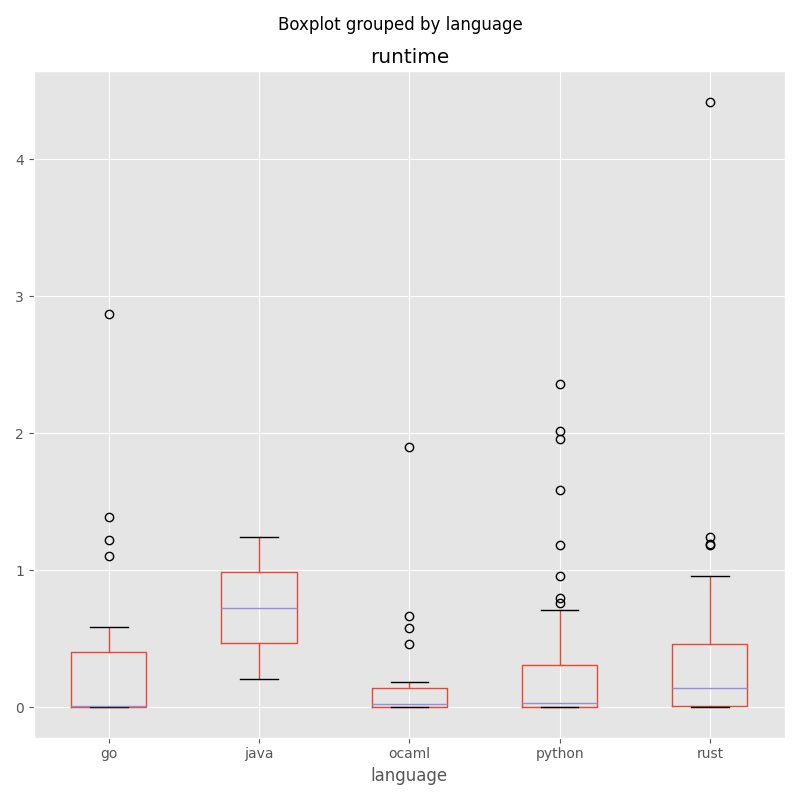
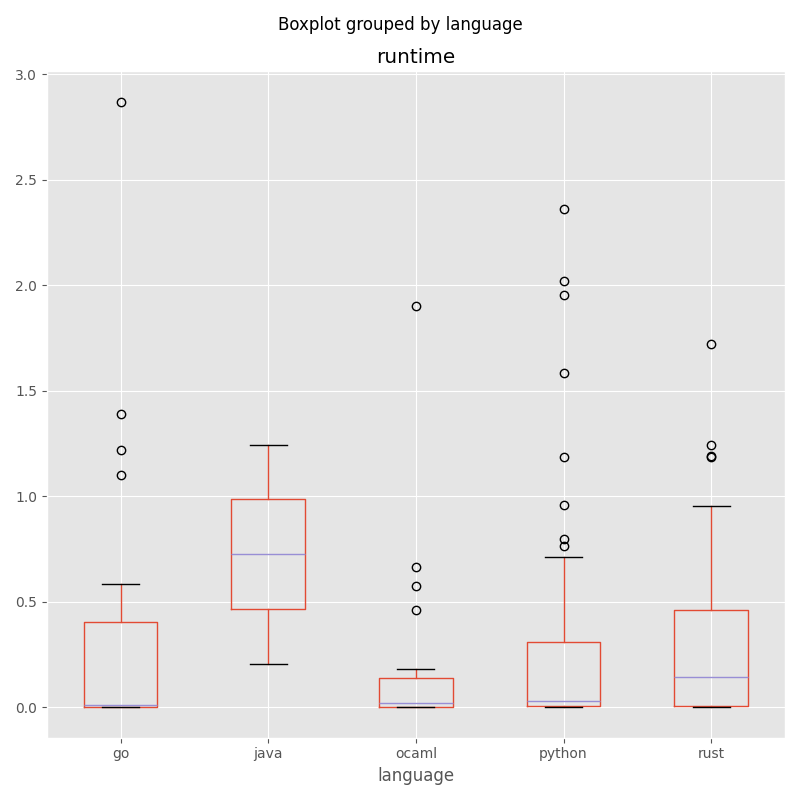
Get a significant improvement for 2022/16 from 4.5 seconds to 1.5 seconds by storing valves as u8s rather than Strings

diff --git a/2022/16/solver.rs b/2022/16/solver.rs
@@ -1,6 +1,7 @@
 use aoc_lib::answer;
 use aoc_lib::reader;
 use fxhash::FxHashMap;
+use itertools::Itertools;
 use nom::{
     branch::alt,
     bytes::complete::tag,
@@ -14,16 +15,48 @@ use petgraph::{algo::floyd_warshall::floyd_warshall, graphmap::DiGraphMap};
 use priority_queue::PriorityQueue;
 use std::collections::BTreeSet;
 
+#[derive(Debug)]
+struct Valve {
+    name: String,
+    flow_rate: u16,
+    leads_to: Vec<String>,
+}
+
+impl Valve {
+    fn from_str(input: &str) -> IResult<&str, Self> {
+        // Valve OM has flow rate=0; tunnels lead to valves AA, EZ
+        let (input, name) = tuple((tag("Valve "), alpha0))(input)?;
+        let (input, flow_rate) = tuple((
+            tag(" has flow rate="),
+            map_res(digit0, |s: &str| s.parse()),
+            tag("; "),
+        ))(input)?;
+        let (input, _) = alt((
+            tag("tunnel leads to valve "),
+            tag("tunnels lead to valves "),
+        ))(input)?;
+        let (input, valves) = separated_list0(tag(", "), alpha0)(input)?;
+        Ok((
+            input,
+            Self {
+                name: name.1.to_string(),
+                flow_rate: flow_rate.1,
+                leads_to: valves.iter().map(|valve| valve.to_string()).collect(),
+            },
+        ))
+    }
+}
+
 #[derive(Debug, Clone, Hash, PartialEq, Eq)]
 struct IndividualState {
-    location: String,
+    location: u8,
     minutes_left: u16,
 }
 
 #[derive(Debug, Clone, Hash, PartialEq, Eq)]
 struct FullState {
     individuals: Vec<IndividualState>,
-    valves_opened: BTreeSet<String>,
+    valves_opened: BTreeSet<u8>,
 }
 
 impl FullState {
@@ -31,20 +64,20 @@ impl FullState {
         Self {
             individuals: vec![
                 IndividualState {
-                    location: "AA".to_string(),
+                    location: 0,
                     minutes_left: starting_time,
                 };
                 individuals
             ],
-            valves_opened: ["AA".to_string()].into(),
+            valves_opened: [].into(),
         }
     }
 }
 
 #[derive(Debug)]
 struct Cave {
-    graph: FxHashMap<String, Vec<(String, u16)>>,
-    valve_to_flow: FxHashMap<String, u16>,
+    graph: FxHashMap<u8, Vec<(u8, u16)>>,
+    valve_flow: FxHashMap<u8, u16>,
 }
 
 impl Cave {
@@ -99,11 +132,11 @@ impl Cave {
                 let minutes_left = individual.minutes_left - time - 1;
 
                 let mut valves_opened = state.valves_opened.clone();
-                valves_opened.insert(destination.to_string());
+                valves_opened.insert(*destination);
 
                 let mut individuals = state.individuals.clone();
                 individuals[i] = IndividualState {
-                    location: destination.to_string(),
+                    location: *destination,
                     minutes_left,
                 };
 
@@ -112,7 +145,7 @@ impl Cave {
                         individuals,
                         valves_opened,
                     },
-                    score + (self.valve_to_flow[destination] * minutes_left),
+                    score + (self.valve_flow[destination] * minutes_left),
                 )
             })
             .collect()
@@ -120,7 +153,7 @@ impl Cave {
 
     fn max_score(&self, state: &FullState) -> u16 {
         let mut unopened: Vec<u16> = self
-            .valve_to_flow
+            .valve_flow
             .iter()
             .filter(|(&ref name, _)| !state.valves_opened.contains(name))
             .map(|(_, &flow_rate)| flow_rate)
@@ -152,87 +185,52 @@ impl Cave {
     }
 }
 
-#[derive(Debug)]
-struct Valve {
-    name: String,
-    flow_rate: u16,
-    leads_to: Vec<String>,
-}
-
-impl Valve {
-    fn from_str(input: &str) -> IResult<&str, Self> {
-        // Valve OM has flow rate=0; tunnels lead to valves AA, EZ
-        let (input, name) = tuple((tag("Valve "), alpha0))(input)?;
-        let (input, flow_rate) = tuple((
-            tag(" has flow rate="),
-            map_res(digit0, |s: &str| s.parse()),
-            tag("; "),
-        ))(input)?;
-        let (input, _) = alt((
-            tag("tunnel leads to valve "),
-            tag("tunnels lead to valves "),
-        ))(input)?;
-        let (input, valves) = separated_list0(tag(", "), alpha0)(input)?;
-        Ok((
-            input,
-            Self {
-                name: name.1.to_string(),
-                flow_rate: flow_rate.1,
-                leads_to: valves.iter().map(|valve| valve.to_string()).collect(),
-            },
-        ))
-    }
-}
-
 fn main() {
     answer::timer(solution);
 }
 
 fn solution() {
     let valves = reader::read(|line| Valve::from_str(line).unwrap().1);
-    let cave = create_cave(&valves);
+    let cave = create_cave(valves, "AA");
     answer::part1(1873, cave.traverse(30, 1));
     answer::part2(2425, cave.traverse(26, 2));
 }
 
-fn create_cave(valves: &Vec<Valve>) -> Cave {
-    let valve_to_flow = get_valve_to_flow(valves);
-    // First create a graph where all edges are weighted at 1
-    let mut base_graph: DiGraphMap<&str, ()> = DiGraphMap::new();
-    valves.iter().for_each(|valve| {
-        valve.leads_to.iter().for_each(|destination| {
-            base_graph.add_edge(&valve.name, destination, ());
-        });
-    });
-    // Use a fast algorithm to get distances between all pairs
-    let all_distances = floyd_warshall(&base_graph, |_| 1).unwrap();
-    // Create a graph weighted by distance for all important valves
-    let mut graph: FxHashMap<String, Vec<(String, u16)>> = FxHashMap::default();
-    for v1 in valve_to_flow.keys() {
-        for v2 in valve_to_flow.keys() {
-            if v1 != v2 {
-                if !graph.contains_key(v1) {
-                    graph.insert(v1.to_string(), Vec::new());
-                }
-                let weight = all_distances.get(&(v1, v2)).unwrap();
-                graph.get_mut(v1).unwrap().push((v2.to_string(), *weight));
-            }
-        }
-    }
-    Cave {
-        graph,
-        valve_to_flow,
-    }
-}
+fn create_cave(valves: Vec<Valve>, start: &str) -> Cave {
+    let distance_graph = DiGraphMap::from_edges(valves.iter().flat_map(|valve| {
+        let start = &valve.name;
+        let ends = &valve.leads_to;
+        ends.iter().map(|end| (start.as_str(), end.as_str(), ()))
+    }));
+    let distances = floyd_warshall(&distance_graph, |_| 1).unwrap();
 
-fn get_valve_to_flow(valves: &Vec<Valve>) -> FxHashMap<String, u16> {
-    let mut valve_to_flow = FxHashMap::default();
-    valves
+    let ordered: Vec<String> = valves
         .iter()
-        // Only some of the valves actually matter, in particular the ones with some flow rate + start
-        .filter(|valve| valve.name == "AA" || valve.flow_rate > 0)
-        .for_each(|valve| {
-            valve_to_flow.insert(valve.name.clone(), valve.flow_rate);
+        .filter(|valve| valve.name == start || valve.flow_rate > 0)
+        .map(|valve| valve.name.to_string())
+        .sorted()
+        .collect();
+
+    let valve_flow: FxHashMap<u8, u16> = valves
+        .iter()
+        .map(|valve| (valve, ordered.iter().position(|v| v == &valve.name)))
+        .filter(|(_, index)| index.is_some())
+        .map(|(valve, index)| (index.unwrap() as u8, valve.flow_rate))
+        .collect();
+
+    let mut graph: FxHashMap<u8, Vec<(u8, u16)>> = FxHashMap::default();
+    (0..ordered.len())
+        .flat_map(|v1| (1..ordered.len()).map(move |v2| (v1 as u8, v2 as u8)))
+        .filter(|(v1, v2)| v1 != v2)
+        .for_each(|(v1, v2)| {
+            if !graph.contains_key(&v1) {
+                graph.insert(v1, Vec::new());
+            }
+            let weight = distances
+                .get(&(&ordered[v1 as usize], &ordered[v2 as usize]))
+                .unwrap();
+            graph.get_mut(&v1).unwrap().push((v2, *weight));
         });
-    valve_to_flow
+
+    Cave { graph, valve_flow }
 }

diff --git a/README.md b/README.md
@@ -229,12 +229,12 @@ a_graph \
 
 | Year | Day | Runtime | Language | Notes                                                   |
 | ---- | --- | ------- | -------- | ------------------------------------------------------- |
-| 2022 | 16  | 4.359   | Rust     | Path finding with multiple agents is fairly optimized   |
 | 2021 | 23  | 2.871   | Go       | Looks like a complex path finding problem               |
 | 2016 | 25  | 2.298   | Python   | Kinda like int-code, can probably make it faster        |
 | 2016 | 11  | 2.009   | Python   | That chips and generator problem, not fun               |
 | 2019 | 17  | 1.993   | Python   | Annoying int-code that hasn't been moved to Rust        |
 | 2023 | 25  | 1.902   | Ocaml    | Uses Karger algorithm which has randomness, time varies |
+| 2022 | 16  | 1.723   | Rust     | Path finding with multiple agents is fairly optimized   |
 | 2019 | 23  | 1.583   | Python   | Kinda annoying int-code that hasn't been moved to Rust  |
 | 2016 | 14  | 1.391   | Go       | Already batched implementation of md5                   |
 | 2019 | 18  | 1.245   | Java     | Can likely minimize state to make lookups faster        |
